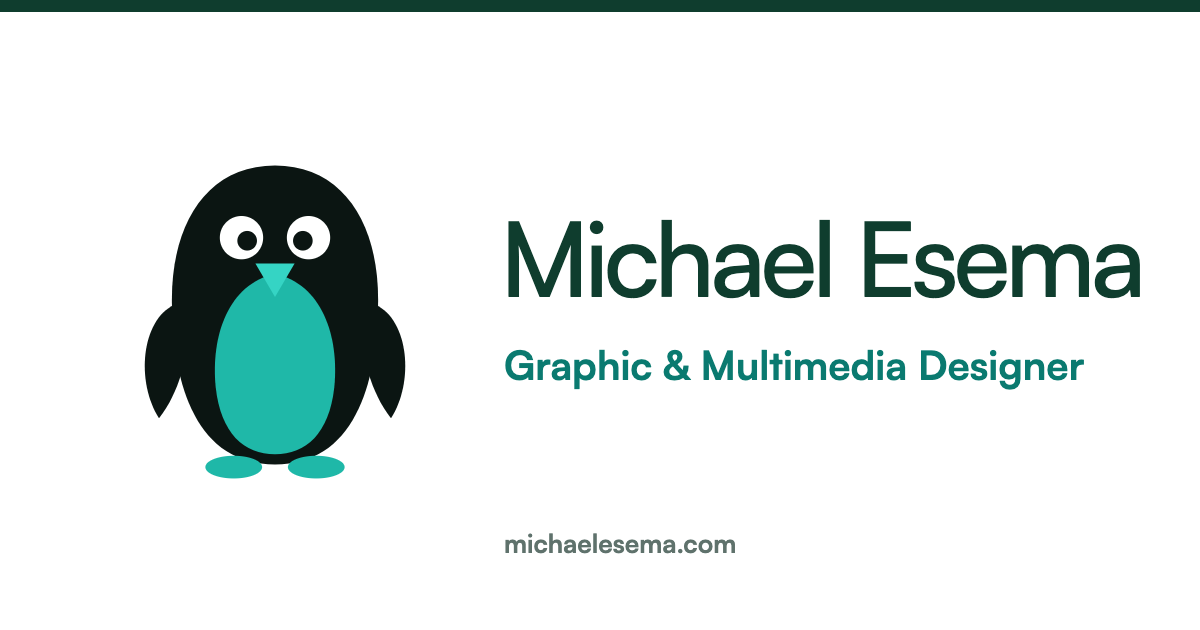
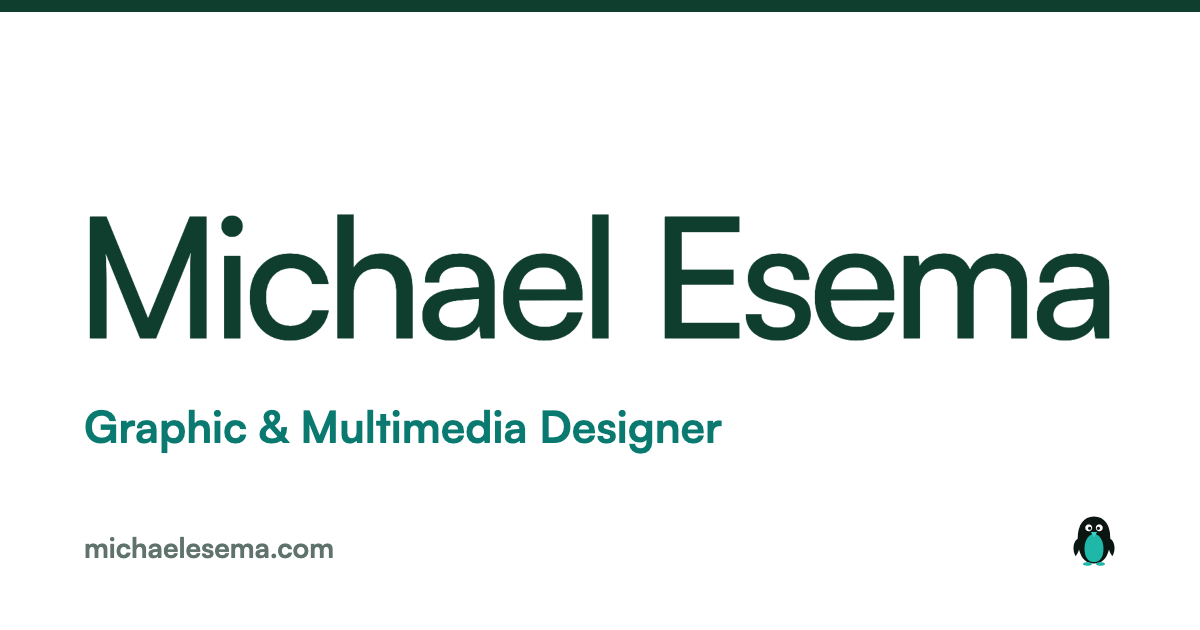
Site v2: discreet penguin symbol, small-screen home with stacked name, hand hint and touch glass, more flyers
The penguin is now only a small symbol (nav corner, tiny turning mark in the dark panel, intro curtain, share card shows the name only). On screens up to 700px the home page rearranges: text flows down, the name stacks on two lines and grows, the dark panel holds a hand icon and the line Drag across the name until the first touch, and the glass effect follows a finger and also sweeps on its own every few seconds on touch screens. B's Hive gains the Playroom karaoke and Premier League flyers (7 total); Silent Party gains the 2022 Cinema and 2025 Disco flyers. Checked: build, lint, no console errors, no overflow at 375 and 1440, no dashes, no broken images.

Claude-Session: https://claude.ai/code/session_01RUEys5dbugUawhh6hZ4Afq

diff --git a/src/site/GlassWord.tsx b/src/site/GlassWord.tsx
@@ -2,8 +2,10 @@ import { useEffect, useRef, useState } from 'react'
 import { useReducedMotion } from 'framer-motion'
 
 // The wordmark, drawn to a texture and shown through a glass shader. Near the
-// cursor the letters split into thin strips that slide, lean and ripple while
-// you move, with a lens pull and a faint teal fringe; they settle when you leave.
+// cursor or finger the letters split into thin strips that slide, lean and
+// ripple while you move, with a lens pull and a faint teal fringe; they settle
+// when you let go. With `auto` (touch screens, which have no hover) a sweep
+// passes through the name every few seconds so it moves on its own.
 // The real text stays in the page for readers, search and selection, and is
 // what shows when WebGL or motion is unavailable.
 
@@ -47,12 +49,18 @@ function compile(gl: WebGLRenderingContext, type: number, src: string) {
   return gl.getShaderParameter(s, gl.COMPILE_STATUS) ? s : null
 }
 
-export default function GlassWord({ text }: { text: string }) {
+type Props = { lines: string[]; auto?: boolean; onInteract?: () => void }
+
+export default function GlassWord({ lines, auto = false, onInteract }: Props) {
   const wrap = useRef<HTMLSpanElement>(null)
   const cv = useRef<HTMLCanvasElement>(null)
   const reduce = useReducedMotion()
   const [live, setLive] = useState(false)
   const [fs, setFs] = useState<number | null>(null)
+  const [h, setH] = useState<number | null>(null)
+  const key = lines.join('|')
+  const interact = useRef(onInteract)
+  useEffect(() => { interact.current = onInteract }, [onInteract])
 
   useEffect(() => {
     if (reduce) return
@@ -78,7 +86,11 @@ export default function GlassWord({ text }: { text: string }) {
     gl.vertexAttribPointer(loc, 2, gl.FLOAT, false, 0, 0)
     const U = (n: string) => gl.getUniformLocation(prog, n)
     const dpr = Math.min(2, window.devicePixelRatio || 1)
-    const st = { mx: -9999, my: -9999, tx: -9999, ty: -9999, str: 0, active: false, t0: performance.now(), W: 0, H: 0 }
+    const st = {
+      mx: -9999, my: -9999, tx: -9999, ty: -9999, str: 0, active: false, t0: performance.now(), W: 0, H: 0,
+      sweep: null as null | { t0: number; dur: number },
+    }
+    const textLines = key.split('|')
     let tex: WebGLTexture | null = null
     let raf = 0
     let dead = false
@@ -91,16 +103,26 @@ export default function GlassWord({ text }: { text: string }) {
       gl.uniform2f(U('uMouse'), st.mx, st.my)
       gl.uniform1f(U('uTime'), t)
       gl.uniform1f(U('uStr'), st.str)
-      gl.uniform1f(U('uR'), st.W * 0.16)
+      gl.uniform1f(U('uR'), Math.max(st.W * 0.16, st.H * 0.45))
       gl.uniform1f(U('uS'), dpr)
       gl.drawArrays(gl.TRIANGLE_STRIP, 0, 4)
     }
     const loop = (now: number) => {
+      if (st.sweep) {
+        const f = (now - st.sweep.t0) / st.sweep.dur
+        if (f >= 1) { st.sweep = null; st.active = false }
+        else {
+          st.tx = st.W * (0.06 + 0.88 * f)
+          st.ty = st.H * (0.45 + 0.2 * Math.sin(f * 9))
+          if (!st.active) { st.mx = st.tx; st.my = st.ty }
+          st.active = true
+        }
+      }
       st.mx += (st.tx - st.mx) * 0.22
       st.my += (st.ty - st.my) * 0.22
       st.str += ((st.active ? 1 : 0) - st.str) * 0.09
       draw((now - st.t0) / 1000)
-      if (st.active || st.str > 0.004) raf = requestAnimationFrame(loop)
+      if (st.active || st.sweep || st.str > 0.004) raf = requestAnimationFrame(loop)
       else { raf = 0; st.str = 0; draw(0) }
     }
     const kick = () => { if (!raf) raf = requestAnimationFrame(loop) }
@@ -115,8 +137,10 @@ export default function GlassWord({ text }: { text: string }) {
       if (!ctx) return
       ctx.font = '500 100px Satoshi, sans-serif'
       if ('letterSpacing' in ctx) ctx.letterSpacing = '-4.5px'
-      const size = cssW / (ctx.measureText(text).width / 100)
-      const cssH = Math.ceil(size * 1.12)
+      const widest = Math.max(...textLines.map(l => ctx.measureText(l).width))
+      const size = cssW / (widest / 100)
+      const lead = textLines.length > 1 ? 0.98 : 0
+      const cssH = Math.ceil(size * (0.84 + lead * (textLines.length - 1) + 0.28))
       st.W = Math.round(cssW * dpr)
       st.H = Math.round(cssH * dpr)
       c2.width = st.W
@@ -125,7 +149,7 @@ export default function GlassWord({ text }: { text: string }) {
       if ('letterSpacing' in ctx) ctx.letterSpacing = `${-0.045 * size * dpr}px`
       ctx.fillStyle = 'rgb(15,61,46)'
       ctx.textBaseline = 'alphabetic'
-      ctx.fillText(text, 0, size * dpr * 0.84)
+      textLines.forEach((l, i) => ctx.fillText(l, 0, size * dpr * (0.84 + lead * i)))
       canvas.width = st.W
       canvas.height = st.H
       canvas.style.height = `${cssH}px`
@@ -139,23 +163,35 @@ export default function GlassWord({ text }: { text: string }) {
       gl.texParameteri(gl.TEXTURE_2D, gl.TEXTURE_WRAP_S, gl.CLAMP_TO_EDGE)
       gl.texParameteri(gl.TEXTURE_2D, gl.TEXTURE_WRAP_T, gl.CLAMP_TO_EDGE)
       setFs(size)
+      setH(cssH)
       draw(0)
       setLive(true)
     }
 
     const onMove = (e: PointerEvent) => {
       const r = canvas.getBoundingClientRect()
+      st.sweep = null
       st.tx = (e.clientX - r.left) * dpr
       st.ty = (e.clientY - r.top) * dpr
       if (!st.active) { st.mx = st.tx; st.my = st.ty }
       st.active = true
+      if (e.type === 'pointerdown') interact.current?.()
       kick()
     }
     const onLeave = () => { st.active = false; kick() }
     canvas.addEventListener('pointermove', onMove)
+    canvas.addEventListener('pointerdown', onMove)
     canvas.addEventListener('pointerleave', onLeave)
     canvas.addEventListener('pointercancel', onLeave)
     canvas.addEventListener('pointerup', onLeave)
+
+    let timer = 0
+    let first = 0
+    if (auto) {
+      const go = () => { if (document.visibilityState === 'visible' && !st.active && st.W) { st.sweep = { t0: performance.now(), dur: 1900 }; kick() } }
+      first = window.setTimeout(go, 1600)
+      timer = window.setInterval(go, 5200)
+    }
 
     let pending = 0
     const ro = new ResizeObserver(() => { cancelAnimationFrame(pending); pending = requestAnimationFrame(() => { void build() }) })
@@ -166,18 +202,24 @@ export default function GlassWord({ text }: { text: string }) {
       dead = true
       cancelAnimationFrame(raf)
       cancelAnimationFrame(pending)
+      window.clearTimeout(first)
+      window.clearInterval(timer)
       ro.disconnect()
       canvas.removeEventListener('pointermove', onMove)
+      canvas.removeEventListener('pointerdown', onMove)
       canvas.removeEventListener('pointerleave', onLeave)
       canvas.removeEventListener('pointercancel', onLeave)
       canvas.removeEventListener('pointerup', onLeave)
       if (tex) gl.deleteTexture(tex)
     }
-  }, [reduce, text])
+  }, [reduce, key, auto])
 
+  const longest = Math.max(...lines.map(l => l.length))
   return (
-    <span ref={wrap} className="sx-gw">
-      <span className={`sx-gw-txt${live ? ' on' : ''}`} style={fs ? { fontSize: fs } : { fontSize: `calc((100vw - 32px) / ${(text.length * 0.5).toFixed(2)})` }}>{text}</span>
+    <span ref={wrap} className="sx-gw" style={h ? { height: h } : undefined}>
+      <span className={`sx-gw-txt${live ? ' on' : ''}`} style={fs ? { fontSize: fs, lineHeight: lines.length > 1 ? 0.98 : 1.12 } : { fontSize: `calc((100vw - 32px) / ${(longest * 0.5).toFixed(2)})` }}>
+        {lines.map((l, i) => <span key={l}>{l}{i < lines.length - 1 ? <br /> : null}</span>)}
+      </span>
       {!reduce && <canvas ref={cv} className="sx-gw-cv" aria-hidden="true" />}
     </span>
   )

diff --git a/src/site/pages.tsx b/src/site/pages.tsx
@@ -2,6 +2,7 @@ import { useEffect, useRef, useState, type ReactNode } from 'react'
 import { Helmet } from 'react-helmet-async'
 import { Link } from 'react-router-dom'
 import { AnimatePresence, motion, useMotionValueEvent, useReducedMotion, useScroll } from 'framer-motion'
+import { HandPointing } from '@phosphor-icons/react'
 import { PROJECTS } from '../work'
 import { EASE_OUT, useSx } from './ctx'
 import GlassWord from './GlassWord'
@@ -22,13 +23,28 @@ function Mask({ children, delay = 0 }: { children: ReactNode; delay?: number }) 
   )
 }
 
-// The dark panel under the wordmark, with the logo turning slowly on its axis.
-function Stage() {
+// The dark panel under the wordmark. The penguin is only a small symbol for now.
+// On small screens a hand shows how to move the name until the first touch.
+function Stage({ hint }: { hint: boolean }) {
   return (
-    <div className="sx-stage2" aria-hidden="true">
-      <div className="sx-turn"><Mark onDark /></div>
+    <div className="sx-stage2">
+      {hint && (
+        <p className="sx-hint"><span className="sx-hand" aria-hidden="true"><HandPointing size={34} weight="light" /></span>Drag across the name</p>
+      )}
+      <div className="sx-turn" aria-hidden="true"><Mark onDark /></div>
     </div>
   )
+}
+
+function useMedia(q: string) {
+  const [on, setOn] = useState(() => (typeof window === 'undefined' ? false : window.matchMedia(q).matches))
+  useEffect(() => {
+    const m = window.matchMedia(q)
+    const f = () => setOn(m.matches)
+    m.addEventListener('change', f)
+    return () => m.removeEventListener('change', f)
+  }, [q])
+  return on
 }
 
 function Meta({ title, desc, path }: { title: string; desc: string; path: string }) {
@@ -44,43 +60,37 @@ function Meta({ title, desc, path }: { title: string; desc: string; path: string
 }
 
 export function Home() {
+  const small = useMedia('(max-width: 700px)')
+  const coarse = useMedia('(pointer: coarse)')
+  const [touched, setTouched] = useState(false)
   return (
     <main id="sx-main" tabIndex={-1} className="sx-main sx-home">
       <Meta title="Michael Esema | Graphic and Multimedia Designer" desc="Michael Esema is a graphic and multimedia designer in the UK working across identity, visual communication and digital design." path="/" />
       <div className="sx-top">
       <p className="sx-head"><Mask>Graphic &amp; Multimedia</Mask><Mask delay={0.08}>Designer</Mask></p>
       <p className="sx-para"><Mask delay={0.16}>I work across identity, visual communication and digital design, helping ideas and businesses find a clear visual language.</Mask></p>
-      <h1 className="sx-h1"><span className="sx-sr">Michael Esema</span><Mask delay={0.28}><GlassWord text="Michael Esema" /></Mask></h1>
+      <h1 className="sx-h1"><span className="sx-sr">Michael Esema</span><Mask delay={0.28}><GlassWord lines={small ? ['Michael', 'Esema'] : ['Michael Esema']} auto={small || coarse} onInteract={() => setTouched(true)} /></Mask></h1>
       </div>
-      <Stage />
+      <Stage hint={small && !touched} />
     </main>
   )
 }
 
 export function Blog() {
+  const small = useMedia('(max-width: 700px)')
+  const coarse = useMedia('(pointer: coarse)')
+  const [touched, setTouched] = useState(false)
   return (
     <main id="sx-main" tabIndex={-1} className="sx-main sx-home">
       <Meta title="Blog, coming soon | Michael Esema" desc="Notes on design and business from Michael Esema. The first articles are on their way." path="/blog" />
       <div className="sx-top">
       <p className="sx-head"><Mask>Blog</Mask><Mask delay={0.08}>Coming soon</Mask></p>
       <p className="sx-para"><Mask delay={0.16}>Notes on design, business and the way the two meet. The first articles are on their way.</Mask></p>
-      <h1 className="sx-h1"><span className="sx-sr">Blog, coming soon</span><Mask delay={0.28}><GlassWord text="Coming Soon" /></Mask></h1>
+      <h1 className="sx-h1"><span className="sx-sr">Blog, coming soon</span><Mask delay={0.28}><GlassWord lines={small ? ['Coming', 'Soon'] : ['Coming Soon']} auto={small || coarse} onInteract={() => setTouched(true)} /></Mask></h1>
       </div>
-      <Stage />
+      <Stage hint={small && !touched} />
     </main>
   )
-}
-
-function useWide() {
-  const q = '(min-width: 1100px)'
-  const [wide, setWide] = useState(() => (typeof window === 'undefined' ? true : window.matchMedia(q).matches))
-  useEffect(() => {
-    const m = window.matchMedia(q)
-    const f = () => setWide(m.matches)
-    m.addEventListener('change', f)
-    return () => m.removeEventListener('change', f)
-  }, [])
-  return wide
 }
 
 const pad = (n: number) => String(n).padStart(2, '0')
@@ -143,7 +153,7 @@ function WorkStack() {
 }
 
 export function Work() {
-  const wide = useWide()
+  const wide = useMedia('(min-width: 1100px)')
   return (
     <main id="sx-main" tabIndex={-1} className="sx-main">
       <Meta title="Work | Michael Esema" desc="Selected design work by Michael Esema: brand identity, print, publication design and websites." path="/work" />

diff --git a/src/site/site.css b/src/site/site.css
@@ -19,7 +19,7 @@ body.sx-body { background: #fff !important; background-image: none !important; }
 
 /* Chrome: top bar, mark, vertical nav */
 .sx-bar { position: fixed; top: 0; left: 0; right: 0; height: 8px; background: #0f3d2e; z-index: 60; }
-.sx-mark { position: fixed; top: 16px; left: 16px; width: 32px; height: 32px; z-index: 60; display: block; }
+.sx-mark { position: fixed; top: 18px; left: 18px; width: 22px; height: 22px; z-index: 60; display: block; opacity: 0.9; }
 .sx-nav { position: fixed; top: 14px; right: 32px; z-index: 60; display: grid; justify-items: end; }
 .sx-nav a { font: 800 16px/24px 'Satoshi', sans-serif; text-transform: uppercase; color: #5f726c; text-decoration: none; }
 .sx-nav a:hover, .sx-nav a[aria-current='page'] { color: #0f3d2e; }
@@ -41,7 +41,10 @@ body.sx-body { background: #fff !important; background-image: none !important; }
 .sx-gw-txt.on { opacity: 0; }
 .sx-gw-cv { position: absolute; left: 0; top: 0; width: 100%; touch-action: pan-y; }
 .sx-stage2 { background: #0f3d2e; display: grid; place-items: center; perspective: 700px; }
-.sx-turn { width: clamp(72px, 9vw, 128px); aspect-ratio: 1; animation: sx-rot 7s linear infinite; }
+.sx-turn { width: 34px; aspect-ratio: 1; animation: sx-rot 9s linear infinite; opacity: 0.85; }
+.sx-hint { display: none; }
+.sx-hand { display: inline-block; animation: sx-swipe 2.2s ease-in-out infinite; transform-origin: 50% 90%; }
+@keyframes sx-swipe { 0% { transform: translateX(-34px) rotate(-10deg); } 50% { transform: translateX(34px) rotate(10deg); } 100% { transform: translateX(-34px) rotate(-10deg); } }
 
 /* Work: scroll-stepped stage on wide screens */
 .sx-work { position: relative; }
@@ -84,7 +87,7 @@ body.sx-body { background: #fff !important; background-image: none !important; }
 .sx-rule { position: absolute; left: 16px; right: 16px; bottom: 52px; height: 2px; background: #0f3d2e; transform-origin: left; transform: scaleX(0); }
 .sx-skip { position: absolute; left: 16px; bottom: 14px; background: none; border: 0; font: 800 13px/1 'Satoshi', sans-serif; text-transform: uppercase; color: #5f726c; cursor: pointer; padding: 6px 0; }
 .sx-panel { position: absolute; inset: 0; background: #0f3d2e; display: grid; place-items: center; }
-.sx-spin { opacity: 0; transition: opacity 0.2s; width: 56px; height: 56px; }
+.sx-spin { opacity: 0; transition: opacity 0.2s; width: 40px; height: 40px; }
 .sx-spin.on { opacity: 1; animation: sx-rot 0.9s linear infinite; }
 @keyframes sx-rot { to { transform: rotateY(360deg); } }
 .sx-panel { perspective: 700px; }
@@ -96,12 +99,21 @@ body.sx-body { background: #fff !important; background-image: none !important; }
   .sx-nav a { font-size: 14px; line-height: 22px; }
 }
 @media (max-width: 700px) {
-  .sx-head { left: 16px; top: 128px; width: calc(100% - 32px); font-size: 26px; }
-  .sx-para { left: 16px; top: 214px; width: calc(100% - 32px); font-size: 18px; line-height: 1.4; }
+  /* Small screens rearrange: text flows down, the name stacks on two lines and
+     grows, and the dark panel holds a hand that shows how to move it. */
+  .sx-home { height: auto; min-height: 100dvh; grid-template-rows: auto 200px; overflow: visible; }
+  .sx-top { display: flex; flex-direction: column; gap: 22px; padding: 120px 16px 0; min-height: calc(100dvh - 200px); }
+  .sx-head, .sx-para { position: static; width: auto; }
+  .sx-head { font-size: 26px; }
+  .sx-para { font-size: 18px; line-height: 1.4; }
+  .sx-h1 { position: static; margin-top: auto; }
+  .sx-stage2 { position: relative; align-content: center; justify-items: center; gap: 14px; }
+  .sx-hint { display: grid; justify-items: center; gap: 6px; margin: 0; font: 700 14px/1.2 'Satoshi', sans-serif; color: #dfeadb; }
+  .sx-turn { position: absolute; right: 16px; bottom: 16px; width: 26px; }
   .sx-about { padding: 120px 16px 72px; }
   .sx-row { grid-template-columns: 1fr; gap: 10px; }
 }
 @media (prefers-reduced-motion: reduce) {
-  .sx-spin.on, .sx-turn { animation: none; }
+  .sx-spin.on, .sx-turn, .sx-hand { animation: none; }
   .sx-thumbs li { transition: none; }
 }

diff --git a/src/work.ts b/src/work.ts
@@ -130,6 +130,10 @@ export const PROJECTS: Project[] = [
           { src: '/work/sp-how.jpg', alt: 'The how-it-works section: a party you wear on your head', ratio: '16 / 10' },
           { src: '/work/sp-mobile.jpg', alt: 'The Silent Party 9ja site on a phone', ratio: '4 / 5', fit: 'contain' },
         ] },
+        { kind: 'flyers', caption: 'Silent Cinema, 20 August 2022, and Silent Disco, 13 September 2025, for Silent Party 9ja. The brand owns this work.', shots: [
+          { src: '/work/sp-silent-cinema-2022.jpg', alt: 'Silent Cinema, Silent Party flyer dated 20 August 2022: glowing white lettering over a red cinema with popcorn and sponsor logos', ratio: '1 / 1' },
+          { src: '/work/sp-silent-disco-2025.jpg', alt: 'Silent Disco, an all headphones party, 13 September 2025: bold white lettering in a frame over dark teal swirls, gold inflatable rings and a pink and purple headphone', ratio: '1 / 1' },
+        ] },
         { kind: 'band', text: 'The page changes colour as you turn the dial.' },
       ],
     },
@@ -176,6 +180,8 @@ export const PROJECTS: Project[] = [
           { src: '/work/bsh-lounge-karaoke.jpg', alt: "B's Hive Lounge karaoke nights flyer on a blue striped ground with an orange panel and a microphone", ratio: '1100 / 1353' },
           { src: '/work/bsh-womens-day.jpg', alt: "International Women's Day post for B's Hive in blue and red, with three women embracing", ratio: '1100 / 1108' },
           { src: '/work/bsh-fathers-day.jpg', alt: "Father's Day post for B's Hive: a continuous blue line drawing of a father with a child on his shoulders", ratio: '1100 / 1088' },
+          { src: '/work/bsh-playroom-karaoke.jpg', alt: "Karaoke Night flyer for Playroom at B's Hive Hotel: silver lettering on a purple city-night ground with a black disc and dice", ratio: '1100 / 1358' },
+          { src: '/work/bsh-epl-weekend.jpg', alt: "B's Hive flyer, Watch the EPL live in HD every weekend: seven footballers on a blue sunburst ground with bold white and yellow lettering", ratio: '1100 / 775' },
         ] },
         { kind: 'pair', ratio: '4 / 5', shots: [
           { src: '/work/bshive-letterhead.jpg', alt: "The B's Hive letterhead with logo, watermark and address footer", ratio: '210 / 297', fit: 'contain' },
